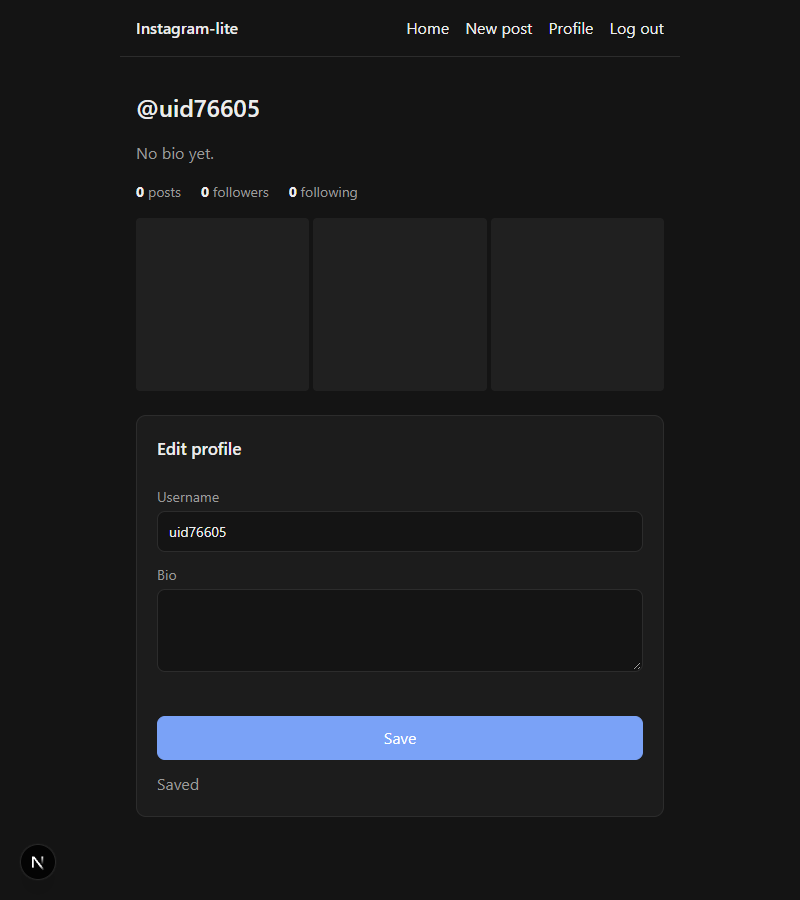
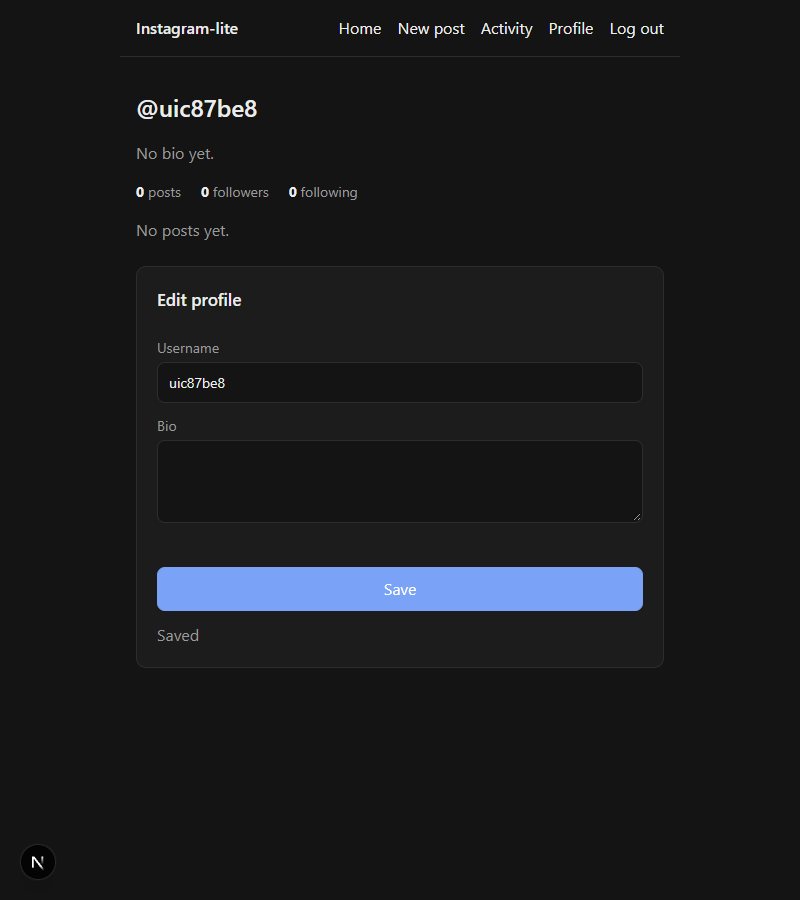
test+docs: engage smoke (CDC notifications), step 5 learn doc, notes 8
Claude-Session: https://claude.ai/code/session_01WeDhxLeoFE159fPGSoGCfu

diff --git a/scripts/src/smoke.ts b/scripts/src/smoke.ts
@@ -3,6 +3,7 @@
  *  auth:     sign up → GET /me 404 → PUT /me → GET /users/{NAME} → no token 401
  *  pipeline: POST /posts → PUT PNG to S3 → READY → in grid, postCount 1; a fake PNG → FAILED
  *  feed:     seeds demo users; bob's feed = pushed + celeb-pulled posts, paged, unfollow/refollow
+ *  engage:   likes/comments counts, notifications via CDC (like, comment, follow; not self), mark read
  *  ui:       (needs `npm -w web run dev`) create account → username → upload via /new → grid shows it
  */
 import { randomUUID } from "node:crypto";
@@ -19,7 +20,7 @@ import { readOutputs } from "./deploy-local.js";
 import { localApiUrl } from "./urls.js";
 import { makePng } from "./png.js";
 import { seed } from "./seed.js";
-import { call, eventually, type Session } from "./client.js";
+import { call, eventually, signUpOrIn, ensureProfile, uploadPhoto, waitForStatus as waitPost, type Session } from "./client.js";
 
 const WEB = "http://localhost:3000";
 const CHROME = [
@@ -147,6 +148,21 @@ async function uiFlow() {
         .every((i) => i.complete && i.naturalWidth > 0), { timeout: 20000 });
       ok(true, "ui: bob's home feed renders posts");
       await page.screenshot({ path: img("04-feed.png") });
+
+      // Like + comment on the first post, then the activity page
+      await page.click(".feed-card a[href^='/p?id=']:not(.author):not(.muted)");
+      await page.waitForSelector(".post .actions button.like", { timeout: 20000 });
+      await page.waitForSelector(".comment-form input");
+      await page.click(".post .actions button.like");
+      await page.type(".comment-form input", "Nice one (from the smoke test)");
+      await page.click(".comment-form button[type='submit']");
+      await page.waitForFunction(() => document.querySelector(".comments")?.textContent?.includes("from the smoke test"), { timeout: 20000 });
+      ok(true, "ui: like + comment on a post page");
+      await page.screenshot({ path: img("05-post.png") });
+      await page.goto(`${WEB}/notifications`, { waitUntil: "networkidle0" });
+      await page.waitForSelector(".notifs li, main p.muted", { timeout: 20000 });
+      ok(true, "ui: activity page renders");
+      await page.screenshot({ path: img("05-activity.png") });
     } else console.log("⚠  ui: no feed for bob (run npm run seed), skipped");
   } finally {
     await browser.close();
@@ -189,6 +205,39 @@ async function feedFlow(c: Ctx) {
   ok(star.body.isFollowing === true && star.body.followerCount >= 3, "feed: profile shows isFollowing + star is a celeb (≥3 followers)");
 }
 
+async function freshUser(c: Ctx, prefix: string) {
+  const login = `${prefix}${randomUUID().slice(0, 6)}`;
+  return ensureProfile(c, await signUpOrIn(c, login), login);
+}
+
+async function engageFlow(c: Ctx) {
+  const [author, fan, zed] = [await freshUser(c, "au"), await freshUser(c, "fan"), await freshUser(c, "zed")];
+  const postId = await uploadPhoto(c, author, makePng(800, 800, [90, 160, 200]), "like me");
+  ok((await waitPost(c, author, postId)).status === "READY", "engage: author's post is READY");
+
+  const like1 = await call(c, fan, "POST", `/posts/${postId}/like`);
+  const like2 = await call(c, fan, "POST", `/posts/${postId}/like`);
+  ok(like1.body.likeCount === 1 && like2.body.likeCount === 1, "engage: double like counts once");
+  ok((await call(c, fan, "GET", `/posts/${postId}`)).body.likedByMe === true, "engage: likedByMe true for the fan");
+  ok((await call(c, author, "GET", `/posts/${postId}`)).body.likedByMe === false, "engage: likedByMe false for the author");
+  const cm = await call(c, fan, "POST", `/posts/${postId}/comments`, { text: "great shot" });
+  ok(cm.status === 201 && cm.body.username === fan.login, "engage: comment saved with the commenter's username");
+  ok((await call(c, author, "GET", `/posts/${postId}`)).body.commentCount === 1, "engage: commentCount = 1");
+  await call(c, author, "POST", `/posts/${postId}/like`); // own like: must not notify
+  await call(c, zed, "POST", `/users/${author.userId}/follow`); // UserFollowed via the change stream
+
+  // CDC → EventBridge → SQS → notify Lambda is asynchronous
+  const notifs = await eventually(() => call(c, author, "GET", "/notifications"), (r) => r.body.items?.length >= 3, 45000);
+  const kinds = notifs.body.items.map((n: { type: string; actorUsername: string }) => `${n.type}:${n.actorUsername}`).sort();
+  ok(JSON.stringify(kinds) === JSON.stringify([`PostCommented:${fan.login}`, `PostLiked:${fan.login}`, `UserFollowed:${zed.login}`].sort()),
+    "engage: author notified of like + comment + follow (none for own like)");
+  ok(notifs.body.unread === 3, "engage: unread = 3");
+  await call(c, author, "POST", "/notifications/read");
+  ok((await call(c, author, "GET", "/notifications")).body.unread === 0, "engage: mark read → unread 0");
+  const zedFeed = await eventually(() => call(c, zed, "GET", "/feed"), (r) => r.body.items?.some((i: { postId: string }) => i.postId === postId), 30000);
+  ok(zedFeed.body.items.some((i: { postId: string }) => i.postId === postId), "engage: follow (via CDC) backfilled zed's feed");
+}
+
 async function main() {
   await assertFlociUp();
   useLocalEnv();
@@ -198,6 +247,7 @@ async function main() {
   if (!only || only === "auth") await authFlow(c);
   if (!only || only === "pipeline") await pipelineFlow(c);
   if (!only || only === "feed") await feedFlow(c);
+  if (!only || only === "engage") await engageFlow(c);
   if (!only || only === "ui") await uiFlow();
 }
 

diff --git a/docs/learn/05-likes-comments-notifs.md b/docs/learn/05-likes-comments-notifs.md
@@ -1,0 +1,82 @@
+# Step 5: Likes, comments, notifications
+
+## What got built
+
+- **Like / unlike** a post (♡ → ♥, updates instantly). The count is exact: double-liking still counts once.
+- **Comments** on the post page (oldest first, "More comments" paging).
+- **Notifications** ("Activity" in the nav, with an unread badge): someone liked your post,
+  commented, or started following you. Never for your own actions.
+- Every notification is also published to an **SNS topic**. That's where email/push senders would plug in.
+- The big change: **events now come from the database's change stream** (DynamoDB Streams), not
+  from the API code. Step 4's follow event was moved to this too.
+
+![post](img/05-post.png)
+
+## How it fits
+
+```mermaid
+flowchart LR
+  B[Browser] -->|like / comment| E[engage Lambda]
+  B -->|follow| S[social Lambda]
+  E -->|LIKE# / COMMENT# item + counter, one transaction| T[(DynamoDB)]
+  S -->|FOLLOWER# item| T
+  T -->|stream: new items only| P[events Lambda]
+  P -->|PostLiked / PostCommented / UserFollowed| EB[EventBridge]
+  EB --> NQ[SQS notify] --> N[notify Lambda] -->|NOTIF# item| T
+  N --> SNS[SNS topic: email / push later]
+  EB --> FQ[SQS fanout] --> F[feed fan-out · step 4]
+```
+
+## The ideas to learn
+
+### 1. The dual-write problem → change data capture (CDC)
+The naive way: save the like, *then* publish "PostLiked". If the publish fails (timeout, crash)
+the like exists but nobody hears about it. If you publish first and the save fails, you announce
+something that never happened.
+**Fix:** write once. DynamoDB Streams records every change, and a Lambda turns new rows into events.
+The event exists **because** the row exists. (In SQL databases the same idea is the
+**transactional outbox**: insert the event row in the same transaction and a relay publishes it.)
+Code: `services/src/events/map.ts` (row → event) and `publisher.ts`.
+
+### 2. Exact counters
+The like item and `likeCount + 1` go in **one transaction**, with a condition that the like
+didn't exist. No double counts, no drift. The tradeoff: every like on one post updates the same
+item, so a viral post becomes a **hot key** (see the table below).
+
+### 3. Unread counts without updating every row
+"Mark all read" writes one marker (`lastReadAt`). Unread = notifications newer than it.
+That's 1 write instead of N.
+
+### 4. Optimistic UI
+The heart flips **before** the server answers, then settles on the real count (or flips back on
+error). Feels instant. Every big app does it.
+
+### 5. Idempotent consumers, again
+A stream or queue can deliver twice. Notification ids are derived from the source event
+(e.g. `comment:<commentId>`), so a redelivery overwrites instead of duplicating.
+
+## How big companies do it
+
+| Here | At scale |
+|---|---|
+| `likeCount` on the post item | **Sharded counters** (N counter items, summed on read) or async aggregation (stream → batch increments), because one viral post would throttle a single item |
+| One notification per event | **Aggregation**: "alice and 52 others liked your post", batched digests, per-user rate limits |
+| SNS topic with no subscribers | SNS → email (SES), mobile push (APNs/FCM), with user preferences + quiet hours |
+| DynamoDB Streams → Lambda | Same (or Kinesis/Kafka + Debezium for SQL databases); **EventBridge Pipes** can do stream → bus with no code |
+| Comments in the post's partition | Separate comments store with spam filtering, ranking ("top comments"), and moderation |
+
+## Interview angle
+- *"How do you keep the DB and events consistent?"* Outbox / CDC, never dual writes.
+- *"Design the like button for a post with 10M likes."* Idempotent like records, sharded or async
+  counters, show approximate counts, cache hot posts.
+- *"Design notifications."* Events → queue → notification service → store + channels (push/email/in-app),
+  idempotency, aggregation, preferences, rate limits.
+
+## Poke it
+```powershell
+npm run smoke engage          # likes, comments, notifications via CDC
+aws dynamodb describe-table --table-name ig-local-main --query "Table.StreamSpecification"
+aws lambda list-event-source-mappings --function-name ig-local-events
+```
+In the UI: log in as **alice**. Open Activity: bob's follow (from the seed) is there. Like one of
+star's posts as bob, then check star's Activity.

diff --git a/docs/learn/system-design-notes.md b/docs/learn/system-design-notes.md
@@ -187,3 +187,29 @@ flowchart LR
 
 **Interview angle:** *"How do services talk?"* Sync (HTTP) when you need an answer now; async
 events when you just announce something happened. Mention at-least-once delivery + idempotency.
+
+---
+
+## 8. Keeping data and events consistent (outbox / CDC) + counters at scale
+
+**The question:** you save a like and must tell other services. How do you avoid "saved but never announced"?
+
+- **Dual write** (save, then publish) can half-fail. Don't.
+- **Transactional outbox:** in the *same DB transaction*, insert an `outbox` row; a relay reads the
+  outbox and publishes. **CDC** (change data capture: DynamoDB Streams, Debezium on Postgres/MySQL
+  binlogs) is the same idea using the database's own change log.
+- Consumers must be **idempotent** (at-least-once delivery) and tolerate **out-of-order** events.
+
+**Counters (likes, views):**
+- Small scale: atomic increment in a transaction with the like record (what we do).
+- Hot items: **sharded counters** (write to one of N shards at random, sum on read), or
+  **async aggregation** (count events in a stream, flush every few seconds). Display approximate
+  numbers ("10.2M") and cache them.
+
+```mermaid
+flowchart LR
+  W[Write: like row + counter] --> DB[(DB)]
+  DB -->|change log| R[Relay / stream reader] --> BUS((Event bus)) --> C1[Notifications] & C2[Feed] & C3[Analytics]
+```
+
+**In this project:** `services/src/events/` (stream → events), `services/src/engage/repo.ts` (exact counters).

diff --git a/docs/learn/README.md b/docs/learn/README.md
@@ -30,4 +30,10 @@ Tick boxes as you go.
 - [ ] Code: `services/src/feed/fanout.ts` (push), `services/src/feed/handler.ts` + `merge.ts` (pull + merge)
 - [ ] Try: `npm run seed`, log in as bob, unfollow alice, watch her posts vanish
 
+## Step 5: Likes, comments, notifications (DynamoDB Streams, SNS)
+- [ ] [05-likes-comments-notifs.md](05-likes-comments-notifs.md): dual-write problem → CDC
+- [ ] [system-design-notes.md §8](system-design-notes.md#8-keeping-data-and-events-consistent-outbox--cdc--counters-at-scale): outbox / CDC + counters at scale
+- [ ] Code: `services/src/events/map.ts` (the whole CDC idea in 20 lines), `services/src/notify/worker.ts`
+- [ ] Try: like a post as bob, then log in as its author and open Activity
+
 ## Every step has a "How big companies do it" table at the end. Read those for interview follow-ups.

diff --git a/docs/learn/04-follow-feed.md b/docs/learn/04-follow-feed.md
@@ -3,7 +3,8 @@
 ## What got built
 
 - **Follow / unfollow** (`POST|DELETE /users/{id}/follow`): one transaction writes both directions
-  of the relationship and both counters. Emits a **`UserFollowed`** event.
+  of the relationship and both counters. A **`UserFollowed`** event follows (since step 5 it comes
+  from the database change stream, not from the API code; see `05-likes-comments-notifs.md`).
 - A **fan-out Lambda** listening to `PostPublished` + `UserFollowed` (via EventBridge → SQS):
   - normal author posts → a pointer goes into **every follower's feed** (push)
   - a **celeb** (≥ 3 followers locally) posts → nothing is pushed
